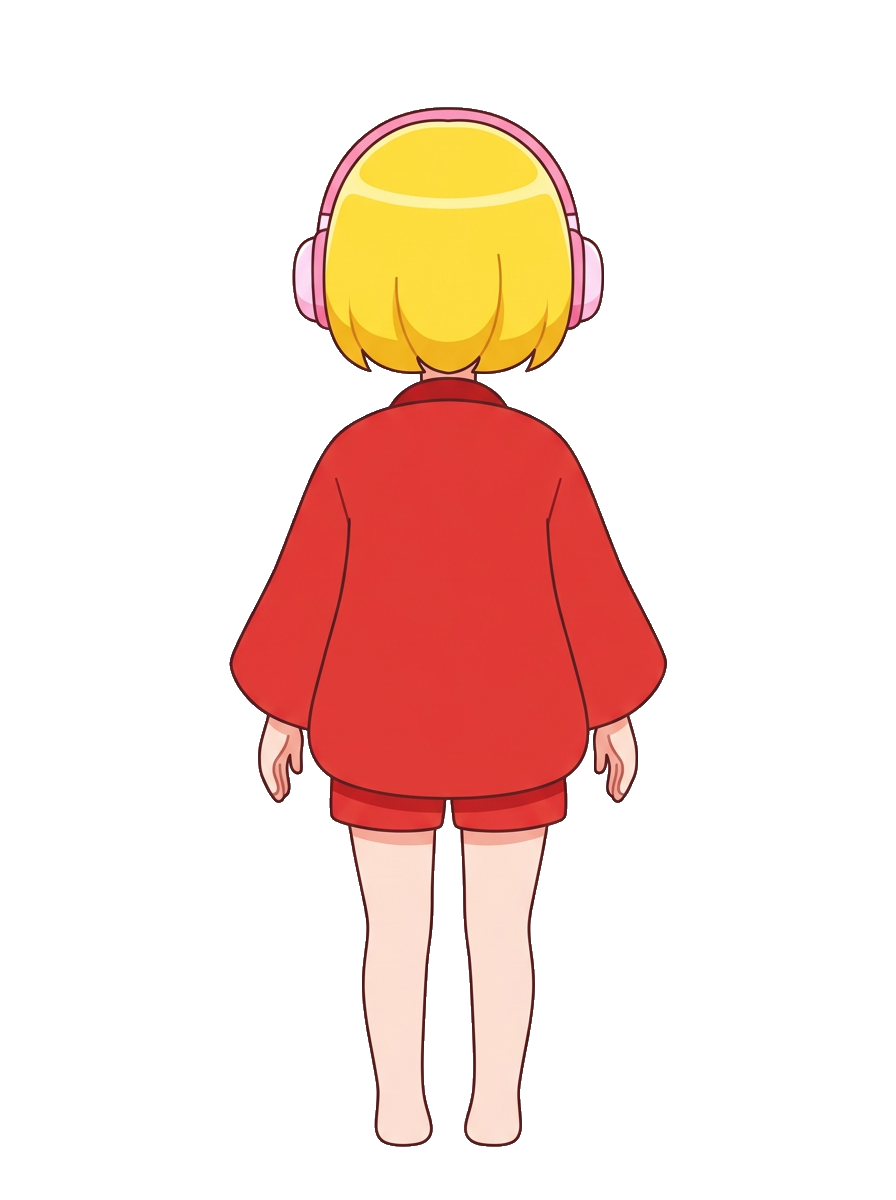
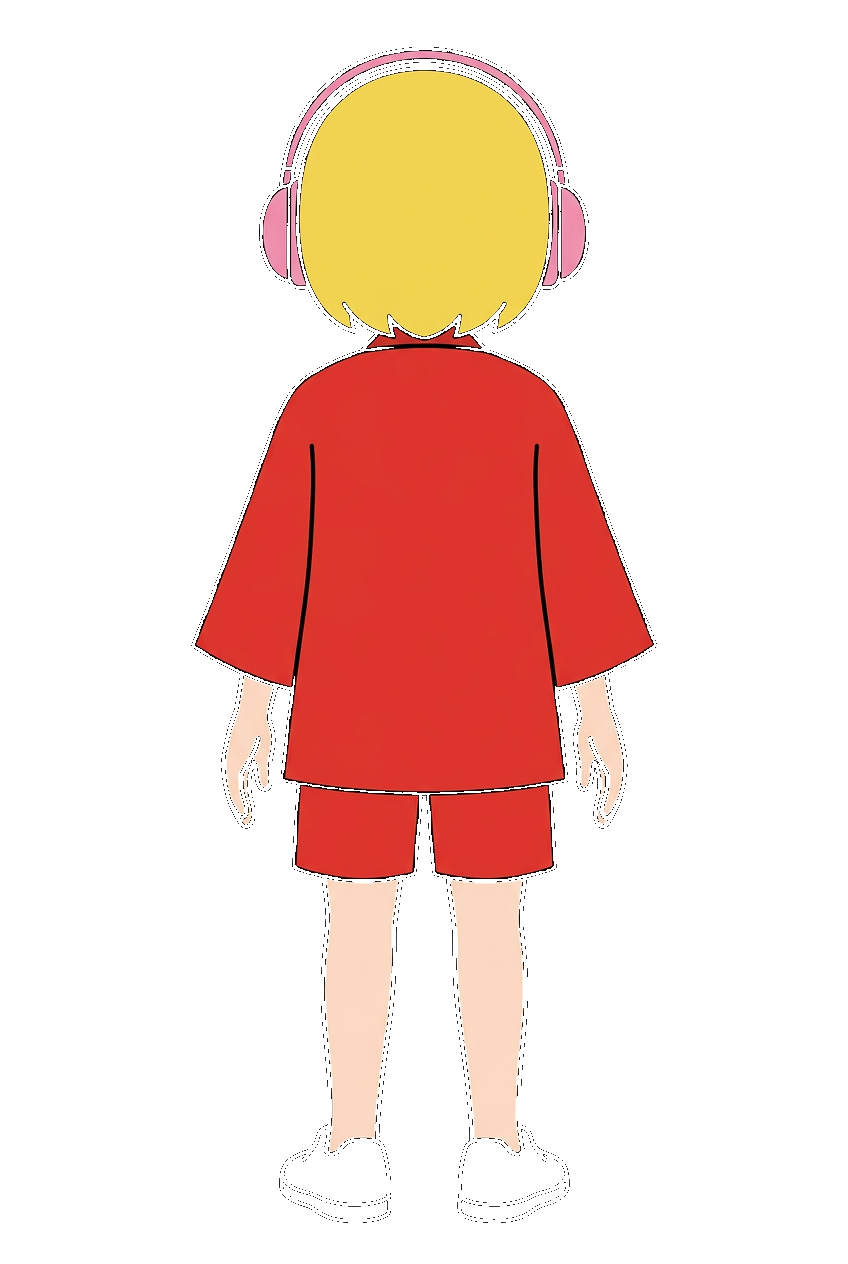
feat(sprite): 14 枚のキャラクタースプライトをデザイン統一で再生成
【背景】
Phase 5-A 拡張時に追加 sprite を順次生成した結果、14 枚で
別キャラ 4-5 名分のデザインが混在していた:
- 服装: 赤ショート着物 / 赤ハッピ + ピンクベルト + 白菱形ボタン /
  赤着物 + 青帯 / 赤和柄雲文様 など
- 足元: 裸足 / ピンク靴 / 白靴 が混在
- 顔つき: 細目 / 大目 / チーク有無 がバラバラ

【統一仕様 (PR #10)】
nano-banana (Gemini 3.1 Flash Image) を統一プロンプトで一括再生成:
- 黄色のショートヘア (前髪あり、丸い輪郭)
- ピンクのオーバーイヤー型ヘッドフォン
- 赤い和風ジャケット (朱赤 #e33535、ハッピ風、装飾なし)
- 赤い短パン (ジャケット同色)
- 白いスニーカー (運動靴、装飾なし)
- 細い線で描かれた目 + 軽く微笑む口、ごく薄いチーク

【scripts/remove-checker-bg.py 改良】
AI が暗いチェッカー柄を描いた場合に外周透明帯と分離されて
透明化失敗していた問題を修正:
- 既透明ピクセル + 純黒チェッカー (RGB<16) + 明灰チェッカー (RGB>=80)
  を全て bg_candidate に含めて連結性を確保
- 中間色 (16-79) は除外し、キャラ内シャドウ・瞳を保護
- side-left-idle.png は旧スクリプトで 0% 透明化失敗 → 改良版で 83.9%

CLAUDE.md のスプライト数表記 (12 → 14) と「裸足」既知課題の
記述を修正。

Changed region(s): [[0.2146, 0.0308, 0.7665, 0.9558]]

diff --git a/scripts/remove-checker-bg.py b/scripts/remove-checker-bg.py
@@ -25,9 +25,22 @@ def remove_checker_bg(path: Path) -> tuple[int, int]:
     r = arr[:, :, 0].astype(int)
     g = arr[:, :, 1].astype(int)
     b = arr[:, :, 2].astype(int)
+    a = arr[:, :, 3].astype(int)
+    # チェッカー柄は「明るいグレー + 暗いグレー」のペア。AI 生成画像は次のいずれかになる:
+    # 1) 外周透明 + 内側に明るいチェッカー柄
+    # 2) 外周透明 + 内側に暗いチェッカー柄（旧スクリプトでは検出不可）
+    # 3) 外周まで全部不透明な明るい / 暗いチェッカー柄
+    # 既に透明なピクセル / 任意の濃さのグレー全てを bg_candidate に含めて連結性を確保。
+    # キャラ内の純黒アウトライン (r<20 で is_gray=True だが) も含まれるが、
+    # 4 隅起点の連結成分判定でキャラ周辺の透明帯と分離されるので保護される。
     is_gray = (np.abs(r - g) < 30) & (np.abs(g - b) < 30) & (np.abs(r - b) < 30)
-    is_bright = r >= 180
-    bg_candidate = is_gray & is_bright
+    is_already_transparent = a < 128
+    # 暗いチェッカー柄 (RGB~0-15 純黒系) と明るいチェッカー柄 (RGB>=80 灰色系) のペアを取る。
+    # 中間色 (16-79) は除外: キャラ内シャドウ/瞳の濃い色を背景候補にしない。
+    # キャラ周辺の肌色 (R>>G>B でグレー判定 False) がバリアになりキャラ内黒線は保護される。
+    is_dark_check = (r < 16) & (g < 16) & (b < 16)
+    is_light_gray = is_gray & (r >= 80)
+    bg_candidate = is_already_transparent | is_dark_check | is_light_gray
 
     labeled, _ = label(bg_candidate)
     corner_labels: set[int] = set()

diff --git a/CLAUDE.md b/CLAUDE.md
@@ -66,7 +66,7 @@ NG（ブランドガイドライン由来）:
 - ロゴ変形・指定色外使用
 - ドロップシャドウ装飾の濫用
 
-## キャラクタースプライト（12 種）
+## キャラクタースプライト（14 種）
 
 | | idle | run | jump | crouch |
 |---|---|---|---|---|
@@ -77,9 +77,7 @@ NG（ブランドガイドライン由来）:
 
 front/back の crouch は side で代用。
 
-すべて nano-banana (Gemini 3.1 Flash Image) で生成し、`scripts/remove-checker-bg.py` で完全透明化済み。
-
-**既知の品質課題**: 追加 sprite 群でキャラが裸足（プロンプトに `shoes` 含めず）。Phase 5-F で再生成予定。
+すべて nano-banana (Gemini 3.1 Flash Image) で統一プロンプト（赤い和風ジャケット + 赤い短パン + 白いスニーカー + 黄色ショート + ピンクヘッドフォン + 細目笑顔）で生成、`scripts/remove-checker-bg.py` で完全透明化済み。Phase 5-C 直前にデザイン整合化（PR #10）で 14 枚を一括再生成。
 
 ## 物理・操作パラメータ（`src/config/gameConfig.ts`）
 
